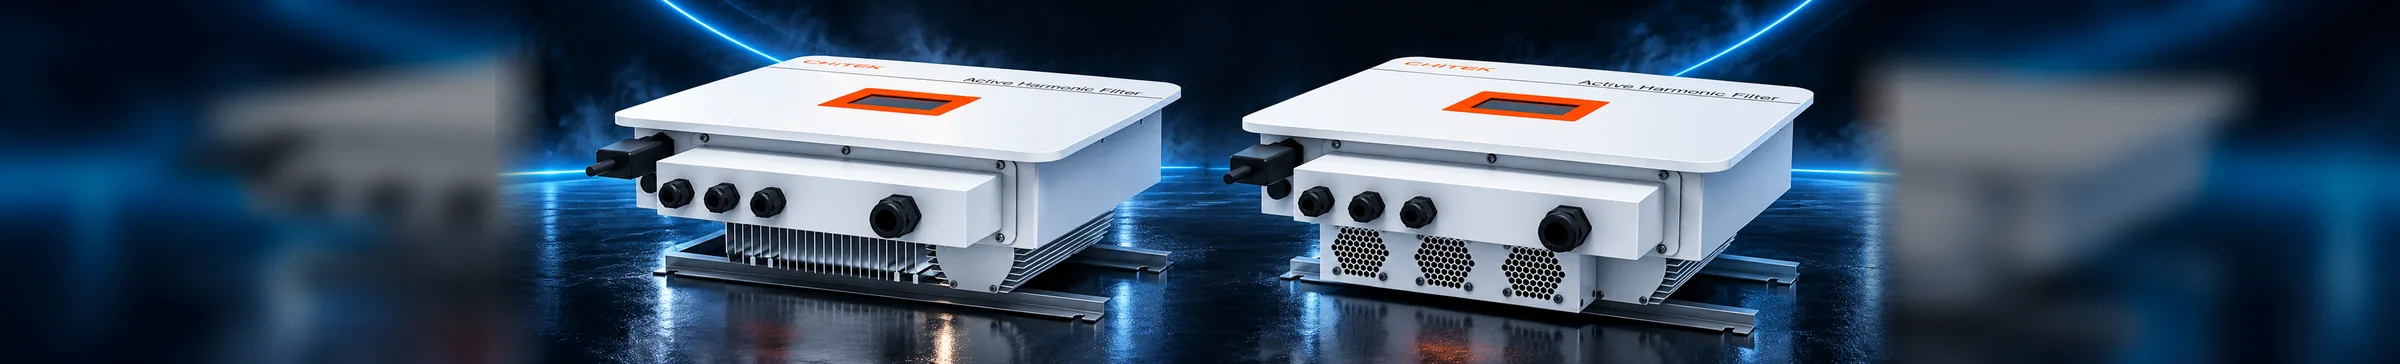
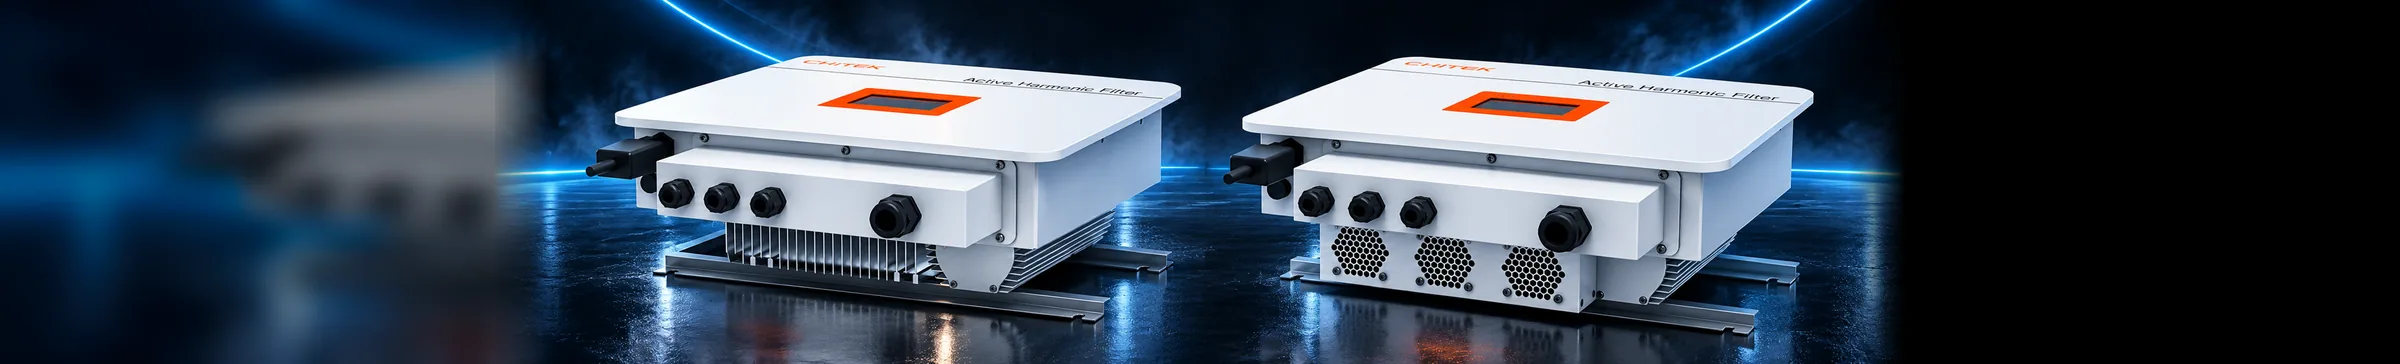
feat: hero 第 4 帧同步全部语言 + 右侧纯黑补边 + 分隔线间距统一
多语言（zh/es/pt/ar 与 en 一致）
- 四个语言首页补齐第 4 帧：文字面板（data-hero-bg=1）、第 4 指示点、独立背景层、
  .hero-scrim 压暗层、.hero-bar 细线分隔、JS 按帧切背景
- 四帧标题字号统一 clamp(26px,3.05vw,44px)（1440 下 43.92px），手机 20px、矮屏 41px
- 文案本地化：zh 新品发布｜自然风冷；es NUEVO LANZAMIENTO；pt NOVO LANÇAMENTO；ar إطلاق جديد
- 阿语为 RTL：压暗渐变镜像成 270deg（文字在右）

图片
- 画布右侧改为纯黑（原先用同图模糊铺底，会把机器糊成一团影子）；左侧仍保留模糊延续，
  因该侧被 scrim 压暗、看不见接缝。桌面 3696×560 6.6:1，纵向仍零裁切

分隔线
- 去掉 <br class="md:hidden"> 后折叠出的空格（会让竖线右侧缝隙比左侧宽 0.25em），
  margin-inline 0.55em → 0.45em。实测两侧墨迹间距 25.0 / 24.5px

Changed region(s): [[0.75, 0.0, 1.0, 1.0]]

diff --git a/_gen_hero_newlaunch.js b/_gen_hero_newlaunch.js
@@ -19,18 +19,21 @@ const RATIO = 6.6;
 
 (async () => {
   const base = await sharp(SRC).extract(CROP).toBuffer();          // 2172x560
-  const W = Math.round(CROP.height * RATIO);                       // 3472
-  const pad = Math.round((W - CROP.width) / 2);                    // 650
+  const W = Math.round(CROP.height * RATIO);                       // 3696
+  const pad = Math.round((W - CROP.width) / 2);                    // 762
 
-  // 两侧铺底：整张拉宽到目标画布 → 模糊 → 压暗（摄影棚背景的延续感）
-  const bg = await sharp(base)
+  // 2026-10-30 用户要求：画布右侧「不够」的地方直接用纯黑，不要模糊铺底（模糊会把机器影子糊成一团）。
+  // 做法：底 = 纯黑；只在左侧（文字那一侧、被 scrim 压暗）铺一条模糊延续；右侧照片之外全黑。
+  const feather = Math.round(CROP.width * 0.04);
+  const leftStripW = Math.min(W, pad + feather + 8);
+  const leftBlur = await sharp(base)
     .resize({ width: W, height: CROP.height, fit: 'fill' })
     .blur(24)
     .modulate({ brightness: 0.58, saturation: 0.85 })
+    .extract({ left: 0, top: 0, width: leftStripW, height: CROP.height })
     .toBuffer();
 
-  // 清晰主体左右羽化 4%，与模糊底无缝衔接
-  const feather = Math.round(CROP.width * 0.04);
+  // 清晰主体左右羽化 4%（羽化后由黑底/模糊底接住，无硬边）
   const maskSvg = `<svg width="${CROP.width}" height="${CROP.height}" xmlns="http://www.w3.org/2000/svg">
     <defs><linearGradient id="g" x1="0" y1="0" x2="1" y2="0">
       <stop offset="0" stop-color="#fff" stop-opacity="0"/>
@@ -42,7 +45,15 @@ const RATIO = 6.6;
   const mask = await sharp(Buffer.from(maskSvg)).png().toBuffer();
   const fg = await sharp(base).ensureAlpha().composite([{ input: mask, blend: 'dest-in' }]).png().toBuffer();
 
-  const master = await sharp(bg).composite([{ input: fg, left: pad, top: 0 }]).toBuffer();
+  const master = await sharp({
+    create: { width: W, height: CROP.height, channels: 3, background: { r: 0, g: 0, b: 0 } },
+  })
+    .composite([
+      { input: leftBlur, left: 0, top: 0 },
+      { input: fg, left: pad, top: 0 },
+    ])
+    .png()
+    .toBuffer();
 
   for (const t of [{ file: 'index-hero-newlaunch.webp' }, { file: 'index-hero-newlaunch-2400w.webp', width: 2400 }]) {
     let p = sharp(master);
